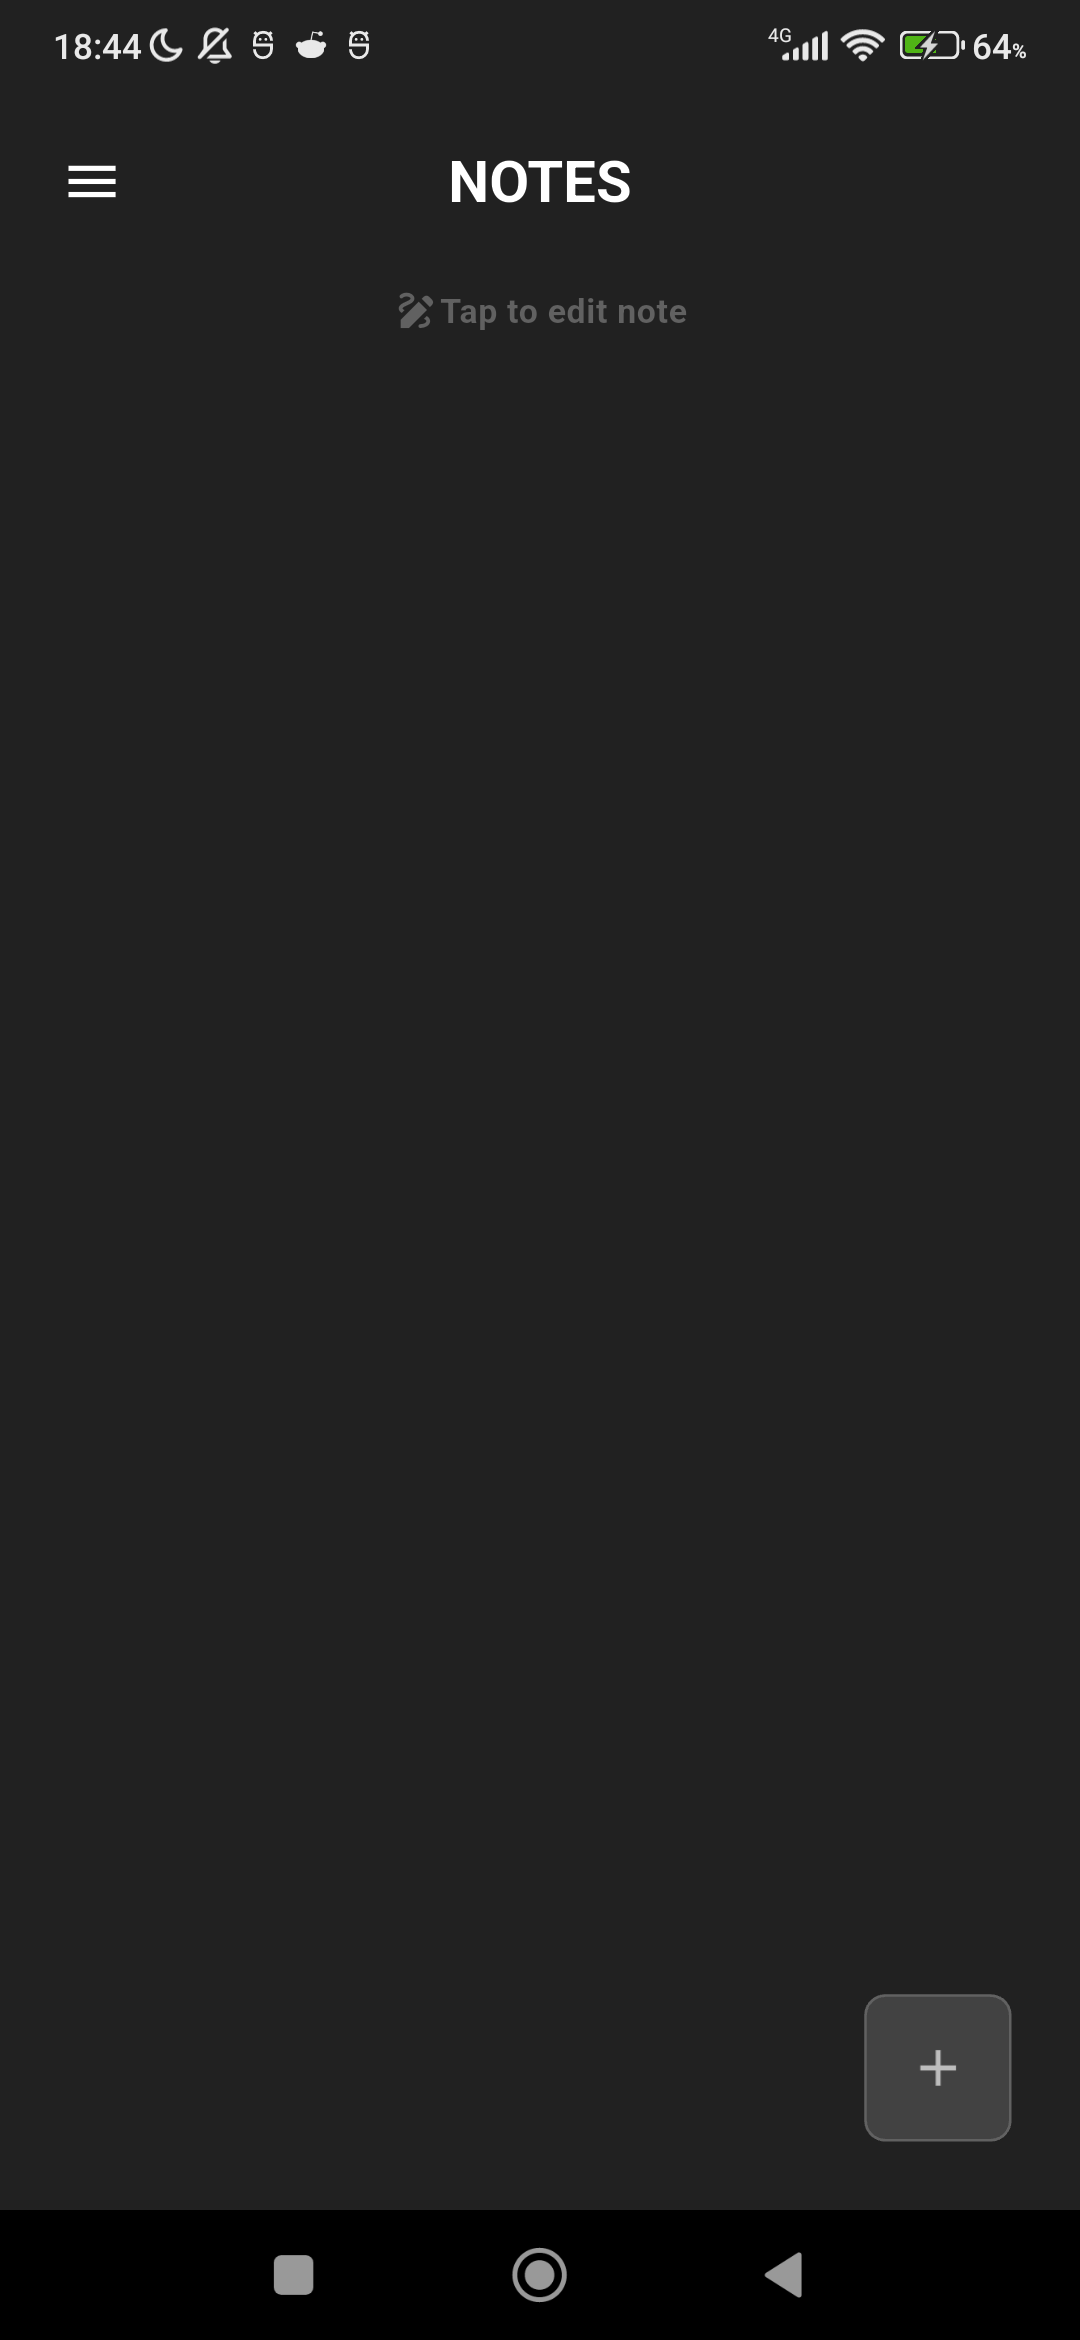
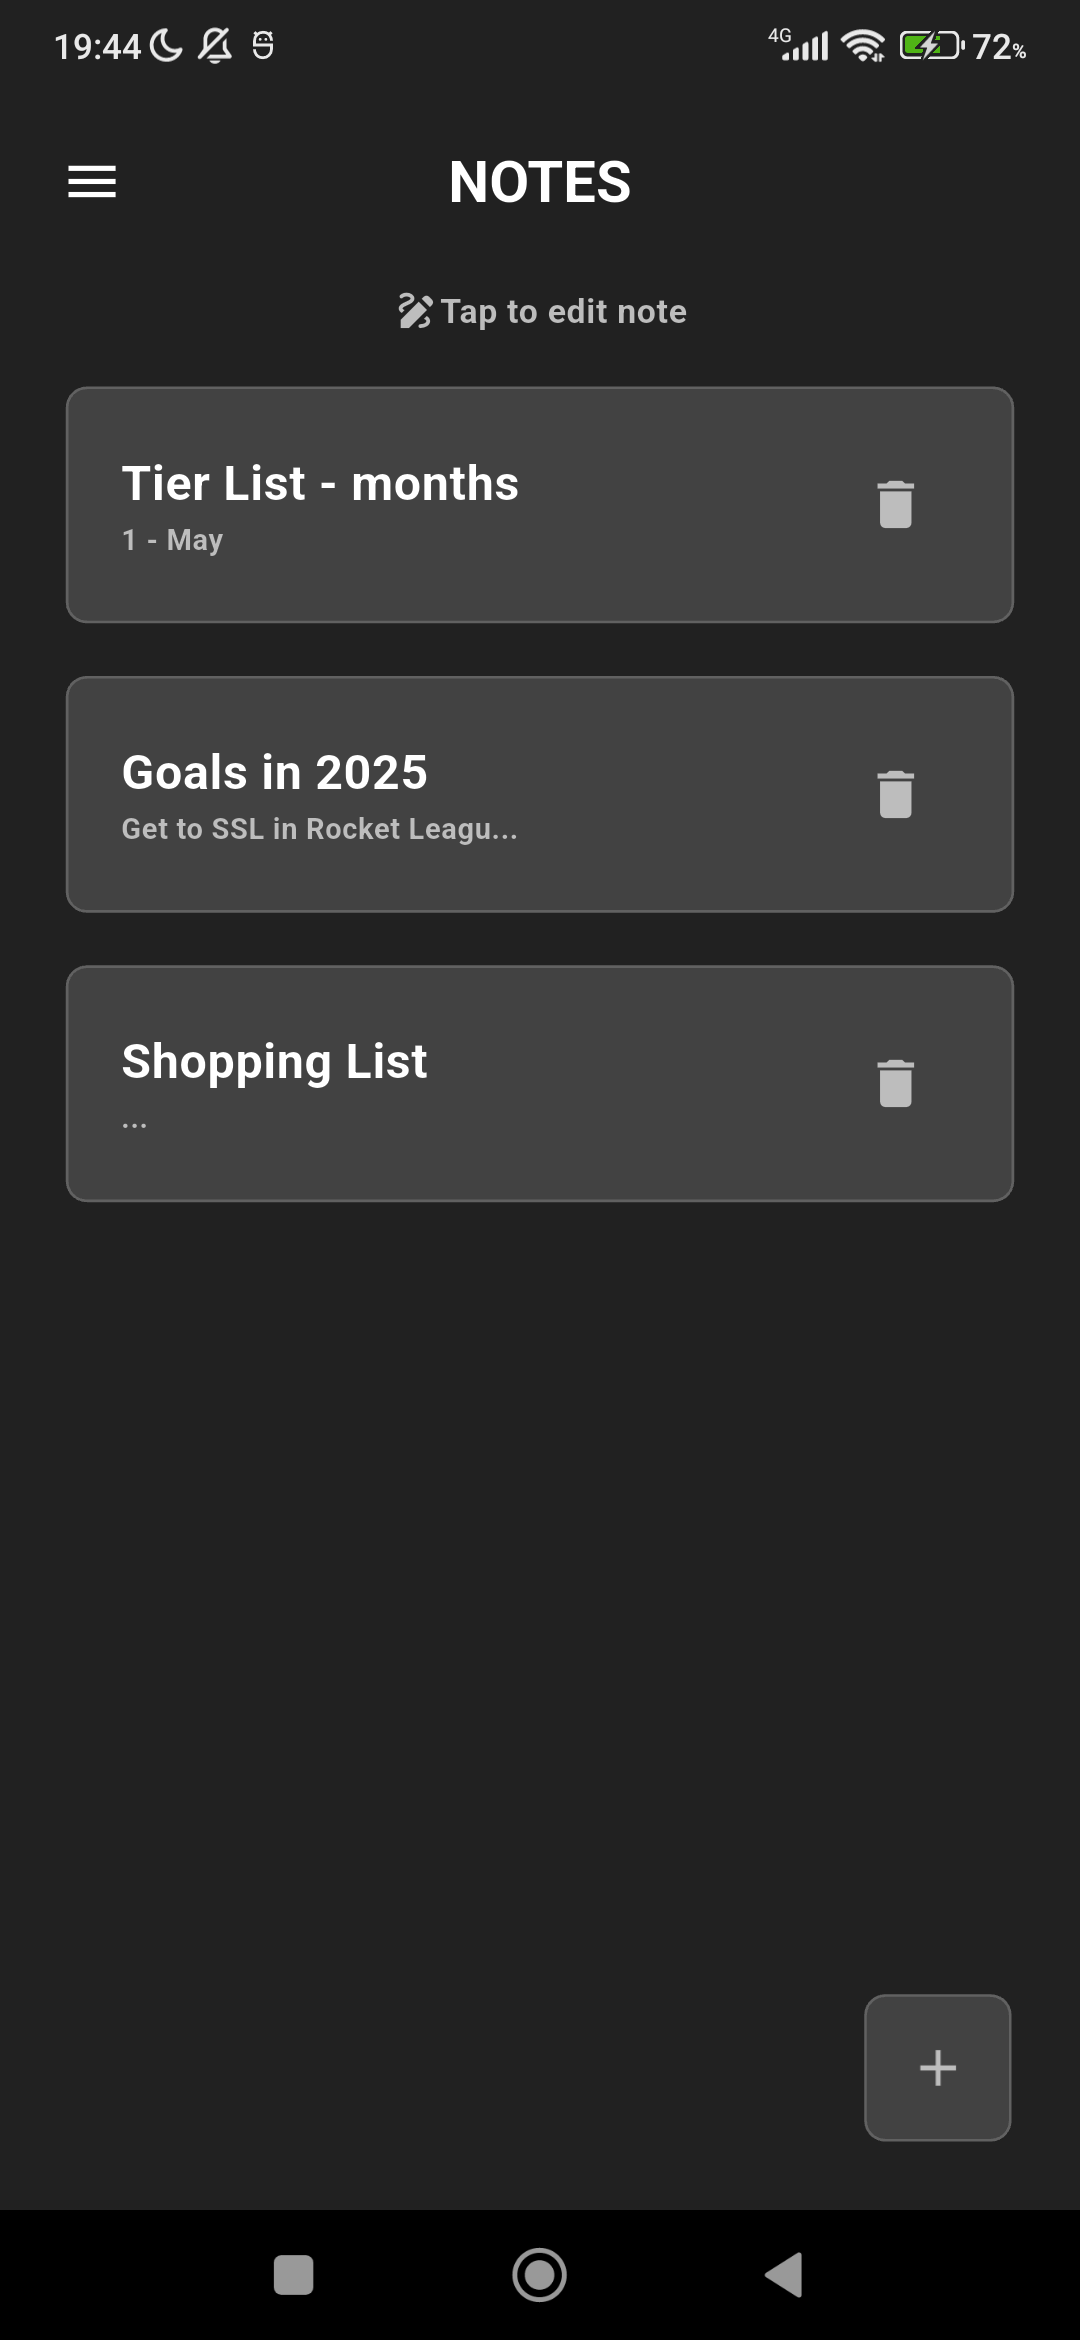
Update Notes App

Changed region(s): [[0.0611, 0.1248, 0.9472, 0.5303], [0.8861, 0.0, 0.9472, 0.0312], [0.275, 0.0, 0.3056, 0.0312]]

diff --git a/notes_app/lib/pages/home_page.dart b/notes_app/lib/pages/home_page.dart
@@ -75,12 +75,12 @@ class _HomePageState extends State<HomePage> {
               Icon(
                 Icons.draw,
                 size: 18,
-                color: Theme.of(context).colorScheme.secondary,
+                color: Theme.of(context).colorScheme.inversePrimary,
               ),
               Text('Tap to edit note',
                   style: TextStyle(
                     fontWeight: FontWeight.bold,
-                    color: Theme.of(context).colorScheme.secondary,
+                    color: Theme.of(context).colorScheme.inversePrimary,
                   )),
             ],
           ),
